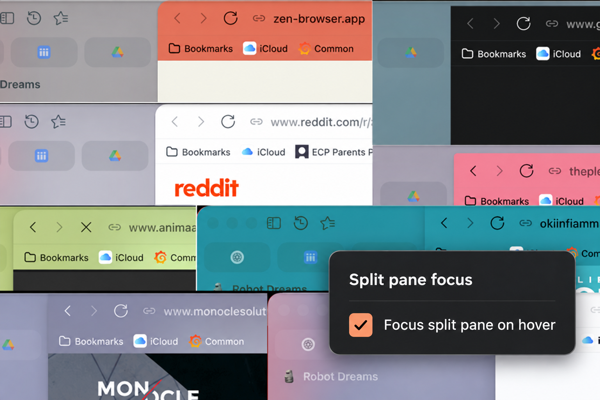
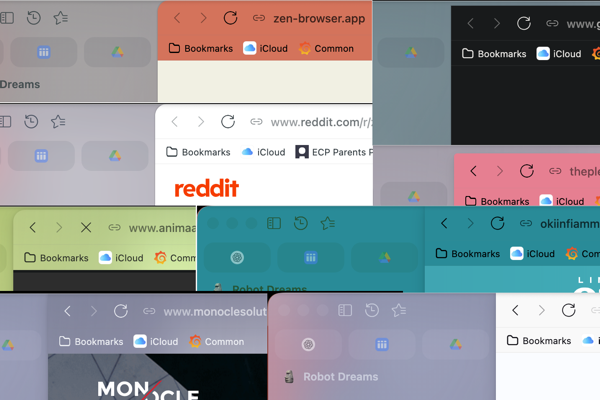
Remove mouse-follow pane selection and restore original preview

diff --git a/tests/native-theme.test.js b/tests/native-theme.test.js
@@ -64,21 +64,20 @@ function countOccurrences(value, needle) {
   return value.split(needle).length - 1;
 }
 
-test('release metadata stays synchronized at version 1.7.26', () => {
+test('release metadata stays synchronized at version 1.7.27', () => {
   const theme = JSON.parse(read('theme.json'));
   const script = read('blended-bar.uc.js');
   const marketplace = read('MARKETPLACE.md');
   const changelog = read('CHANGELOG.md');
 
-  assert.equal(theme.version, '1.7.26');
-  assert.equal(theme.updatedAt, '2026-09-26');
-  assert.deepEqual(theme.scripts['hover-settings.uc.js'].include, ['about:preferences*']);
+  assert.equal(theme.version, '1.7.27');
+  assert.equal(theme.updatedAt, '2026-10-02');
   assert.equal(theme.image, 'https://raw.githubusercontent.com/kkugot/blended-addressbar/main/marketplace-preview.png');
-  assert.match(script, /\/\/ @version\s+1\.7\.26/);
-  assert.match(marketplace, /Version: `1\.7\.26`/);
-  assert.match(marketplace, /"version": "1\.7\.26"/);
-  assert.match(marketplace, /"updatedAt": "2026-09-26"/);
-  assert.match(changelog, /## 1\.7\.26 - 2026-09-26/);
+  assert.match(script, /\/\/ @version\s+1\.7\.27/);
+  assert.match(marketplace, /Version: `1\.7\.27`/);
+  assert.match(marketplace, /"version": "1\.7\.27"/);
+  assert.match(marketplace, /"updatedAt": "2026-10-02"/);
+  assert.match(changelog, /## 1\.7\.27 - 2026-10-02/);
 });
 
 test('browser window tint bridges page colors through native Zen window theme variables', () => {
@@ -1598,57 +1597,6 @@ test('split focus highlight enters slowly, exits quickly and respects reduced mo
   assert.match(css, /transition: box-shadow 90ms ease-in/);
   assert.match(css, /transition-duration: 260ms/);
   assert.match(css, /prefers-reduced-motion: reduce[\s\S]*\.blended-addressbar-pane-highlight[^}]*transition: none !important/);
-  const pref = JSON.parse(read('preferences.json')).find(p => p.property === 'uc.blended-addressbar.split-focus-on-hover');
-  assert.equal(pref?.defaultValue, false);
-});
-
-test('hover focus is opt-in, delayed, cancellable and does not steal URL editing focus', () => {
-  let enabled = false, nextTimer = 0, selected = 0;
-  const timers = new Map();
-  const browser = {}, tab = {};
-  const panels = { getAttribute: () => 'true' };
-  const pane = { parentNode: panels, isConnected: true, matches: () => true,
-    getAttribute: () => 'true', querySelector: () => browser };
-  const event = { buttons: 0, target: { closest: () => pane } };
-  const context = {
-    addressbarEnhancementsDisposed: false, addressbarPrefBranch: 'uc.blended-addressbar.',
-    window: { gZenGlanceManager: { getFocusedTab: () => null } },
-    readBoolPref: () => enabled,
-    chromeDoc: { hasFocus: () => true, documentElement: { hasAttribute: () => false, getAttribute: () => null }, querySelector: () => null },
-    gURLBar: { focused: false, view: { isOpen: false } },
-    gBrowser: { tabpanels: panels, selectedBrowser: {}, getTabForBrowser: () => tab,
-      set selectedTab(value) { assert.equal(value, tab); selected++; } },
-    setTimeout: (callback, delay) => { assert.equal(delay, 150); timers.set(++nextTimer, callback); return nextTimer; },
-    clearTimeout: id => timers.delete(id)
-  };
-  const source = read('blended-bar.uc.js');
-  vm.createContext(context);
-  vm.runInContext(source.slice(source.indexOf('  let splitHoverTimer'), source.indexOf('  function observeSplitAddressbars()')), context);
-  context.onSplitHover(event);
-  assert.equal(timers.size, 0);
-  enabled = true;
-  context.onSplitHover(event);
-  context.onSplitHover(event);
-  assert.equal(timers.size, 1);
-  assert.equal(selected, 0);
-  [...timers.values()][0]();
-  assert.equal(selected, 1);
-  context.onSplitHover(event);
-  context.onSplitHover({ ...event, buttons: 1 });
-  assert.equal(timers.size, 0);
-  context.onSplitHover(event);
-  context.gURLBar.focused = true;
-  [...timers.values()][0]();
-  assert.equal(selected, 1);
-  context.gURLBar.focused = false;
-  context.window.gZenGlanceManager.getFocusedTab = () => tab;
-  context.onSplitHover(event);
-  assert.equal(timers.size, 0);
-  context.window.gZenGlanceManager.getFocusedTab = () => null;
-  context.onSplitHover(event);
-  enabled = false;
-  [...timers.values()][0]();
-  assert.equal(selected, 1);
 });
 
 test('persistent frame bridge loads its scripts into content through data URLs', async () => {

diff --git a/blended-bar.uc.js b/blended-bar.uc.js
@@ -1,7 +1,7 @@
 // ==UserScript==
 // @name           Blended Addressbar
 // @description    Adaptive header color for Zen URL bar
-// @version        1.7.26
+// @version        1.7.27
 // ==/UserScript==
 
 (() => {
@@ -3445,62 +3445,7 @@
     if (!splitRefreshTimer) splitRefreshTimer = setTimeout(refreshSplitAddressbars, 0);
   }
 
-  let splitHoverTimer = 0;
-  let splitHoverPane = null;
-
-  function cancelSplitHover() {
-    if (splitHoverTimer) clearTimeout(splitHoverTimer);
-    splitHoverTimer = 0;
-    splitHoverPane = null;
-  }
-
-  function canHoverSplit() {
-    const root = chromeDoc.documentElement;
-    return !addressbarEnhancementsDisposed
-      && readBoolPref(`${addressbarPrefBranch}split-focus-on-hover`, false)
-      && chromeDoc.hasFocus()
-      && gBrowser.tabpanels.getAttribute('zen-split-view') === 'true'
-      && !root.hasAttribute('customizing')
-      && root.getAttribute('inDOMFullscreen') !== 'true'
-      && !gURLBar.focused && !gURLBar.view.isOpen
-      && !chromeDoc.querySelector('panel[panelopen="true"], menupopup[open="true"]')
-      && !window.gZenGlanceManager?.getFocusedTab?.();
-  }
-
-  function onSplitHover(event) {
-    if (event.buttons || !canHoverSplit()) {
-      cancelSplitHover();
-      return;
-    }
-    const pane = event.target?.closest?.('.browserSidebarContainer[zen-split="true"]:not(.zen-glance-overlay)');
-    const browser = pane?.querySelector(':scope > .browserContainer > .browserStack > browser');
-    if (!browser || browser === gBrowser.selectedBrowser || pane.parentNode !== gBrowser.tabpanels) {
-      cancelSplitHover();
-      return;
-    }
-    if (pane === splitHoverPane) return;
-    cancelSplitHover();
-    splitHoverPane = pane;
-    splitHoverTimer = setTimeout(() => {
-      cancelSplitHover();
-      if (!canHoverSplit() || !pane.isConnected || !pane.matches(':hover')
-        || pane.getAttribute('zen-split') !== 'true') return;
-      const tab = gBrowser.getTabForBrowser(browser);
-      if (tab && !tab.closing) gBrowser.selectedTab = tab;
-    }, 150);
-  }
-
-  function onSplitHoverExit(event) {
-    if (!event.relatedTarget) cancelSplitHover();
-  }
-
   function observeSplitAddressbars() {
-    window.addEventListener('mousemove', onSplitHover, true);
-    window.addEventListener('mouseout', onSplitHoverExit, true);
-    window.addEventListener('mousedown', cancelSplitHover, true);
-    window.addEventListener('keydown', cancelSplitHover, true);
-    window.addEventListener('dragstart', cancelSplitHover, true);
-    window.addEventListener('blur', cancelSplitHover);
     splitObserver = new MutationObserver(records => {
       if (records.some(record => !record.target.closest?.('.blended-addressbar-pane-bar'))) scheduleSplitAddressbars();
     });
@@ -3525,13 +3470,6 @@
 
   function cleanupAddressbarEnhancements() {
     if (addressbarEnhancementsDisposed) return;
-    cancelSplitHover();
-    window.removeEventListener('mousemove', onSplitHover, true);
-    window.removeEventListener('mouseout', onSplitHoverExit, true);
-    window.removeEventListener('mousedown', cancelSplitHover, true);
-    window.removeEventListener('keydown', cancelSplitHover, true);
-    window.removeEventListener('dragstart', cancelSplitHover, true);
-    window.removeEventListener('blur', cancelSplitHover);
     clearInterval(loadbarTimer);
     clearTimeout(splitRefreshTimer);
     splitObserver?.disconnect();

diff --git a/AGENTS.md b/AGENTS.md
@@ -10,12 +10,11 @@ The mod has no build step. Zen loads the source files directly.
 
 - `theme.json` registers `blended-bar.uc.js`, `style.css`, and `preferences.json` with Sine.
 - `blended-bar.uc.js` is the browser chrome script entry point. It owns browser events, color arbitration, caches, preference effects, and CSS variable updates.
-- `hover-settings.uc.js` loads only on `about:preferences*` and exposes the split hover preference on Zen's Tabs and browsing page.
 - `frame.js` runs in page content. It samples page colors and reports theme changes through the message manager.
 - `scripts/*.js` are focused chrome helpers. `blended-bar.uc.js` loads them with `Services.scriptloader` from `chrome://sine/content/blended-addressbar/scripts/`.
 - Each helper exports one `BlendedAddressbarModule`. Keep this contract compatible with the chrome script loader and Node tests.
 - `style.css` is the chrome stylesheet entry point. It imports `styles/loadbar.css` and `styles/header-chrome.css`.
-- `preferences.json` defines the Sine settings UI, including the same split hover preference.
+- `preferences.json` defines the Sine settings UI.
 - `tests/native-theme.test.js` is the Node regression suite.
 - `docs/color-architecture.md` describes the adaptive color pipeline and source policy.
 

diff --git a/README.md b/README.md
@@ -35,7 +35,7 @@ These rows share the page’s clipping boundary and reserve the native field hei
 
 ## Preferences
 
-Change these settings in Sine. Focus split pane on hover is also available on Zen's **Tabs and browsing** page. The preference names below also identify them in `about:config`.
+Change these settings in Sine. The preference names below also identify them in `about:config`.
 
 ### Window tint
 
@@ -45,8 +45,6 @@ Change these settings in Sine. Focus split pane on hover is also available on Ze
 Page colors are always remembered in memory while browsing. They are not saved across browser restarts.
 
 ### Split focus
-
-- `uc.blended-addressbar.split-focus-on-hover`: select the split pane under the pointer after 150ms without clicking; disabled by default. The Sine and Zen settings control the same preference. Works in both toolbar layouts. URL editing, open menus, Glance and dragging suspend hover switching.
 
 The active pane’s inset highlight appears over 260ms and disappears over 90ms. System reduced-motion settings disable these transitions.
 

diff --git a/MARKETPLACE.md b/MARKETPLACE.md
@@ -3,7 +3,7 @@
 ## Ready
 
 - Name: `Blended Addressbar` (18 characters).
-- Version: `1.7.26`.
+- Version: `1.7.27`.
 - Description: `A page-aware addressbar that blends Zen chrome with the active website.` (71 characters).
 - Metadata: `theme.json`.
 - Preferences: `preferences.json`.
@@ -30,9 +30,9 @@
   "readme": "https://raw.githubusercontent.com/kkugot/blended-addressbar/main/README.md",
   "image": "https://raw.githubusercontent.com/kkugot/blended-addressbar/main/marketplace-preview.png",
   "author": "Kostiantyn Kugot",
-  "version": "1.7.26",
+  "version": "1.7.27",
   "ai": "partial",
-  "updatedAt": "2026-09-26",
+  "updatedAt": "2026-10-02",
   "style": {
     "chrome": "style.css",
     "content": ""
@@ -42,9 +42,6 @@
       "include": [
         "chrome://browser/content/browser.xhtml"
       ]
-    },
-    "hover-settings.uc.js": {
-      "include": ["about:preferences*"]
     }
   },
   "preferences": "preferences.json",

diff --git a/CHANGELOG.md b/CHANGELOG.md
@@ -1,5 +1,10 @@
 # Changelog
 
+## 1.7.27 - 2026-10-02
+
+- Remove automatic pane selection under the mouse cursor and its settings. This feature belongs to Alt-click Split View.
+- Restore the original marketplace preview.
+
 ## 1.7.26 - 2026-09-26
 
 - Expose Focus split pane on hover on Zen's Tabs and browsing page. The Zen and Sine checkboxes use the same live, default-off preference.
